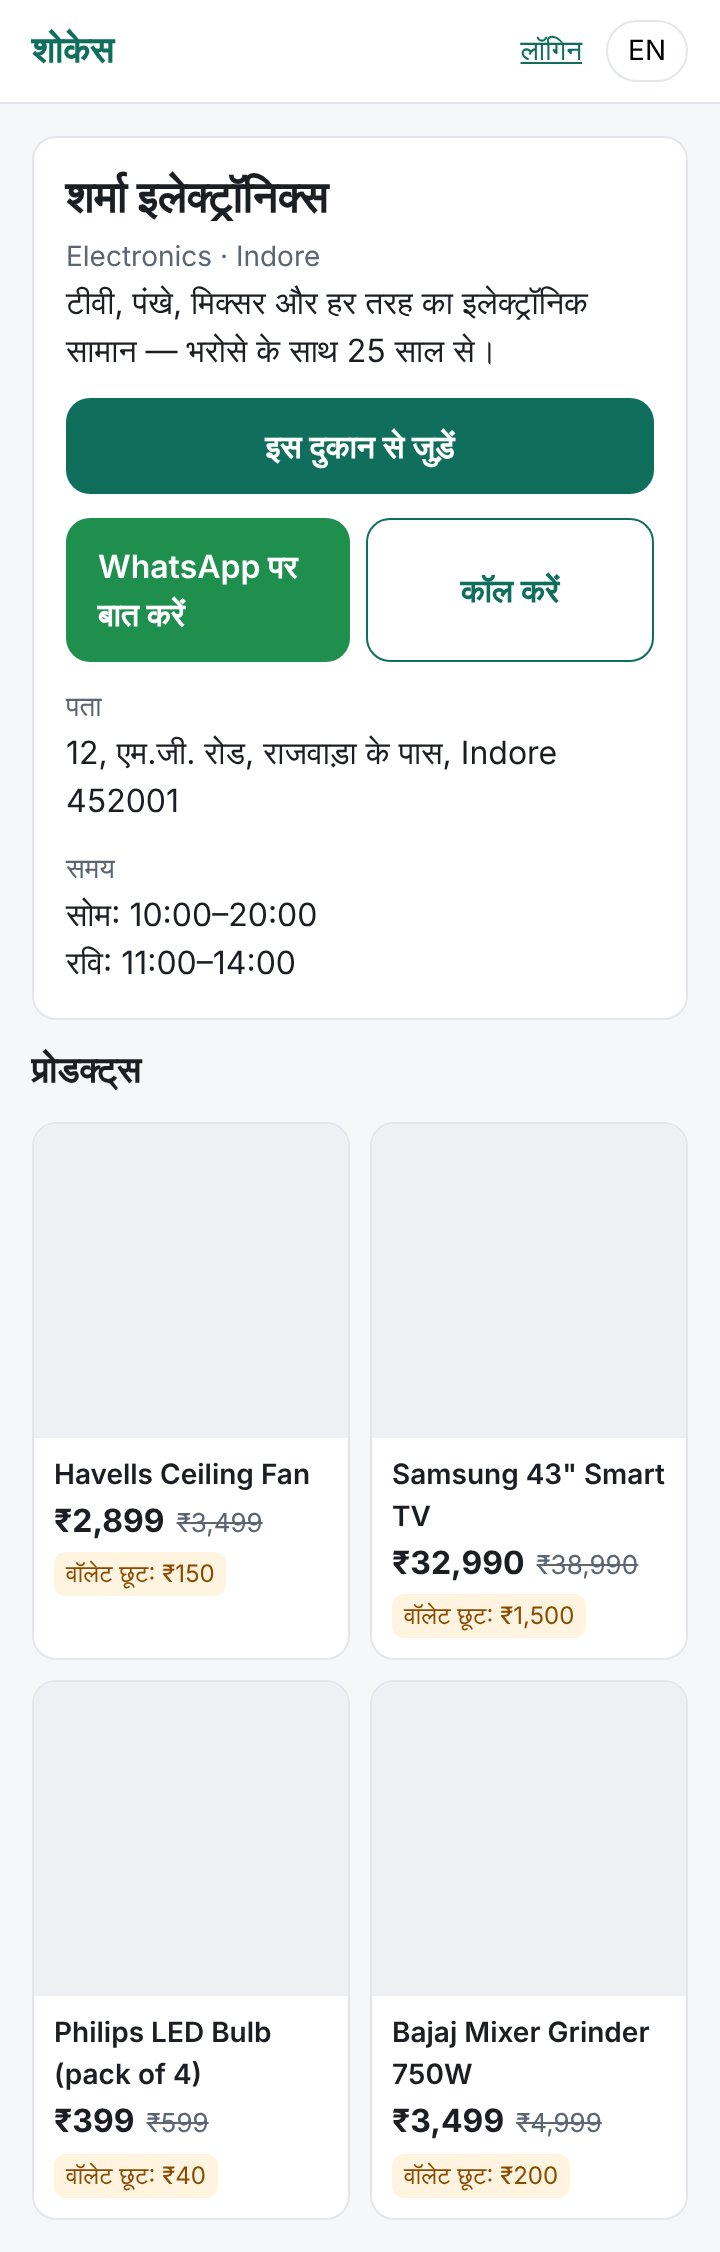
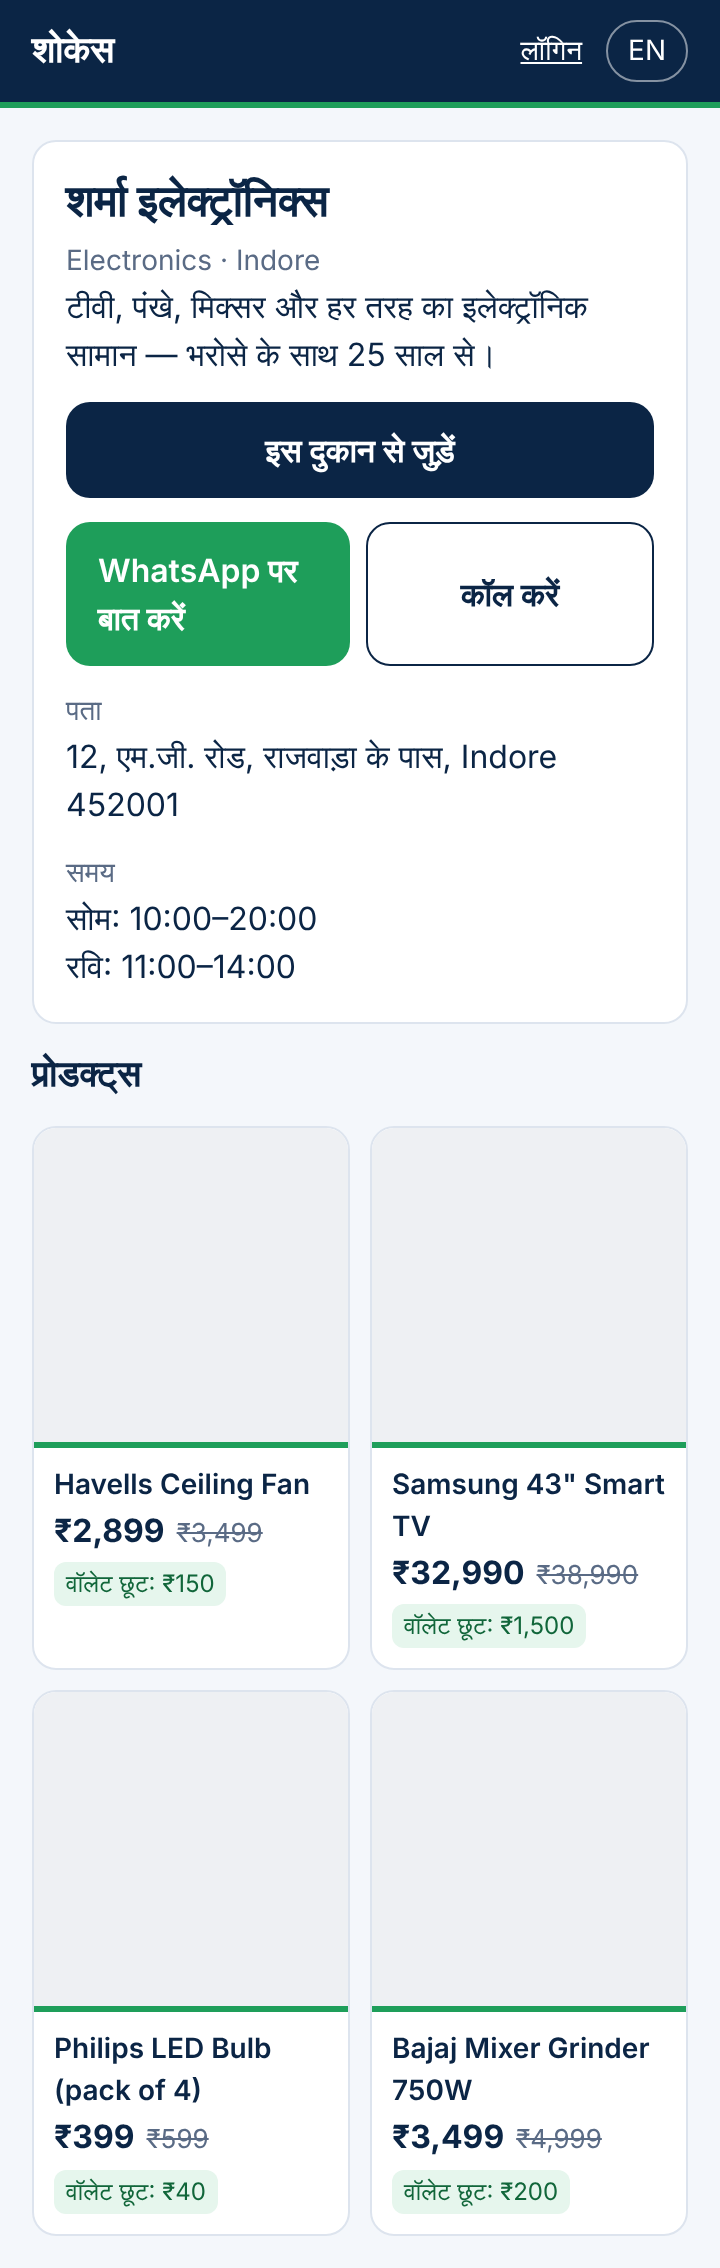
feat: navy blue + white theme with green accents
Claude-Session: https://claude.ai/code/session_01LqGz32zEMnh3UZ4hmqjfex

diff --git a/frontend/app/globals.css b/frontend/app/globals.css
@@ -1,19 +1,25 @@
 :root {
-  --bg: #f6f7f9;
+  /* Theme: navy blue + white, with green accents */
+  --navy: #0b2545;
+  --navy-2: #13315c;
+  --green: #1e9e5a;
+  --green-soft: #e6f6ed;
+  --bg: #ffffff;
+  --surface: #f4f7fb;
   --card: #ffffff;
-  --text: #1b1f24;
-  --muted: #5b6573;
-  --line: #e3e6ea;
-  --brand: #0f6e5c;
+  --text: #0b2545;
+  --muted: #5a6b85;
+  --line: #dde4ee;
+  --brand: var(--navy);
   --brand-ink: #ffffff;
-  --wa: #1f8f4e;
+  --wa: var(--green);
   --danger: #b42318;
   --radius: 12px;
 }
 * { box-sizing: border-box; }
 html, body { margin: 0; padding: 0; }
 body {
-  background: var(--bg);
+  background: var(--surface);
   color: var(--text);
   font-family: system-ui, -apple-system, "Segoe UI", Roboto, "Noto Sans", "Noto Sans Devanagari", sans-serif;
   font-size: 16px;
@@ -25,11 +31,12 @@ main { max-width: 560px; margin: 0 auto; padding: 16px; }
 .header {
   position: sticky; top: 0; z-index: 10;
   display: flex; align-items: center; justify-content: space-between; gap: 8px;
-  padding: 10px 16px; background: var(--card); border-bottom: 1px solid var(--line);
+  padding: 10px 16px; background: var(--navy); border-bottom: 3px solid var(--green); color: #fff;
 }
-.brand { font-weight: 700; color: var(--brand); text-decoration: none; font-size: 18px; }
+.brand { font-weight: 700; color: #fff; text-decoration: none; font-size: 18px; }
+.header nav a { color: #fff; }
 .header nav { display: flex; align-items: center; gap: 12px; font-size: 14px; }
-.lang-toggle { border: 1px solid var(--line); background: transparent; border-radius: 999px; padding: 4px 10px; font: inherit; }
+.lang-toggle { border: 1px solid rgba(255,255,255,.5); background: transparent; color: #fff; border-radius: 999px; padding: 4px 10px; font: inherit; }
 .card { background: var(--card); border: 1px solid var(--line); border-radius: var(--radius); padding: 16px; margin-bottom: 12px; }
 h1 { font-size: 22px; margin: 0 0 4px; line-height: 1.3; }
 h2 { font-size: 18px; margin: 0 0 12px; }
@@ -47,26 +54,29 @@ h2 { font-size: 18px; margin: 0 0 12px; }
 .row > * { flex: 1; }
 .stack > * + * { margin-top: 12px; }
 label { display: block; font-size: 14px; font-weight: 600; margin-bottom: 4px; }
+input:focus, select:focus { outline: 2px solid var(--green); outline-offset: 1px; }
 input[type="text"], input[type="tel"], select {
   width: 100%; min-height: 48px; padding: 10px 12px; border: 1px solid var(--line);
   border-radius: 10px; font: inherit; background: #fff;
 }
 .check { display: flex; gap: 10px; align-items: flex-start; font-weight: 400; }
-.check input { width: 22px; height: 22px; margin-top: 2px; flex: none; }
+.check input { width: 22px; height: 22px; margin-top: 2px; flex: none; accent-color: var(--green); }
 .error { color: var(--danger); font-size: 14px; }
-.success { background: #e8f5ee; color: #135c33; border-radius: 10px; padding: 10px 12px; font-size: 14px; }
+.success { background: var(--green-soft); color: #11663a; border-left: 4px solid var(--green); border-radius: 10px; padding: 10px 12px; font-size: 14px; }
 .cover { width: 100%; aspect-ratio: 16 / 9; object-fit: cover; border-radius: var(--radius); background: var(--line); }
 .products { display: grid; grid-template-columns: repeat(2, minmax(0, 1fr)); gap: 10px; }
 .product { background: var(--card); border: 1px solid var(--line); border-radius: var(--radius); overflow: hidden; }
 .product img, .product .ph { width: 100%; aspect-ratio: 1; object-fit: cover; background: #eef0f3; display: block; }
-.product .body { padding: 8px 10px 10px; }
+.product .body { padding: 8px 10px 10px; border-top: 3px solid var(--green); }
 .product .name { font-size: 14px; font-weight: 600; overflow: hidden; display: -webkit-box; -webkit-line-clamp: 2; -webkit-box-orient: vertical; }
 .price { font-weight: 700; }
 .mrp { color: var(--muted); text-decoration: line-through; font-size: 13px; margin-left: 6px; }
-.badge { display: inline-block; margin-top: 4px; font-size: 12px; background: #fff4e0; color: #8a4b00; border-radius: 6px; padding: 2px 6px; }
+.badge { display: inline-block; margin-top: 4px; font-size: 12px; background: var(--green-soft); color: #11663a; border-radius: 6px; padding: 2px 6px; }
 .fav { display: flex; gap: 12px; align-items: center; }
 .fav .thumb { width: 56px; height: 56px; border-radius: 10px; object-fit: cover; background: #eef0f3; flex: none; }
 .fav .info { flex: 1; min-width: 0; }
 .fav .info a { font-weight: 600; text-decoration: none; color: var(--text); }
 .linkbtn { background: none; border: 0; color: var(--danger); font: inherit; font-size: 14px; cursor: pointer; padding: 8px; }
 .cap { text-transform: capitalize; }
+h1 { color: var(--navy); }
+.price { color: var(--navy); }

diff --git a/frontend/app/layout.tsx b/frontend/app/layout.tsx
@@ -11,7 +11,7 @@ export const metadata: Metadata = {
   icons: { icon: "/icon-192.png", apple: "/icon-192.png" },
 };
 
-export const viewport: Viewport = { width: "device-width", initialScale: 1, themeColor: "#0f6e5c" };
+export const viewport: Viewport = { width: "device-width", initialScale: 1, themeColor: "#0b2545" };
 
 export default function RootLayout({ children }: { children: React.ReactNode }) {
   return (
